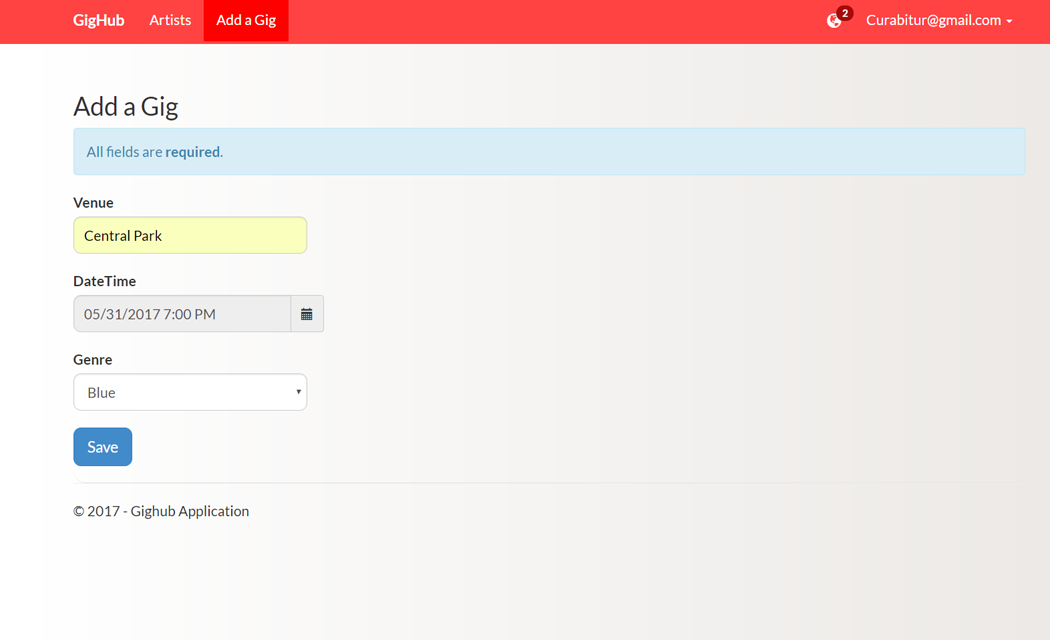
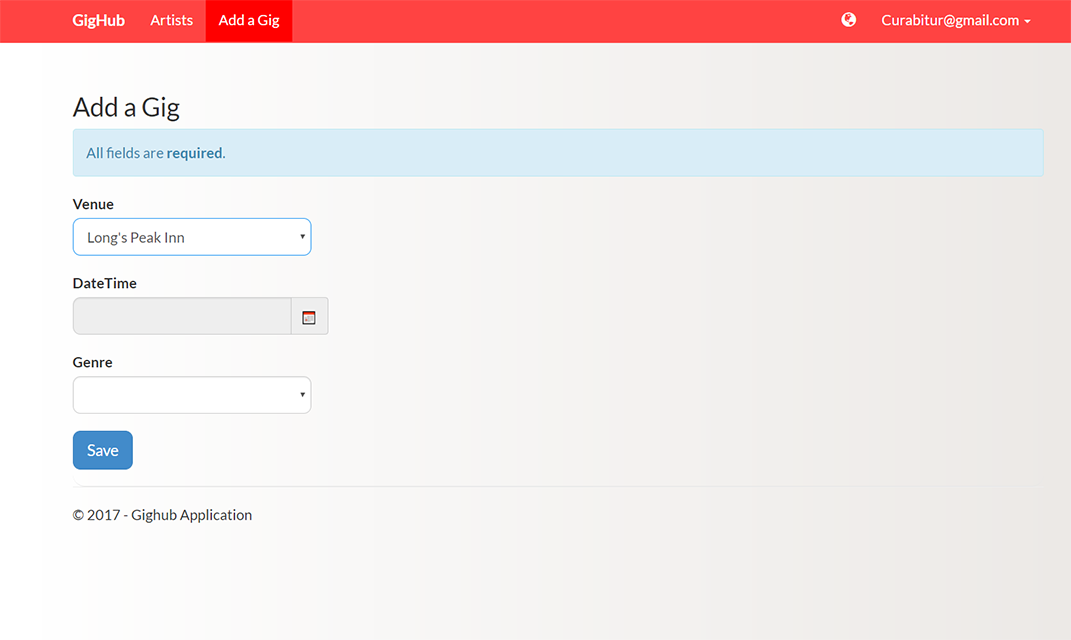
Complete auto complete search

diff --git a/GigHub/GigHub/Content/site.css b/GigHub/GigHub/Content/site.css
@@ -216,8 +216,11 @@ input[type=radio] {
 }
     
 @media(min-width:467px) {
-    #searchGigs, #gigDateTime, .twitter-typeahead>.form-control.tt-input {
+    #searchGigs,.twitter-typeahead>.form-control.tt-input {
         width: 400px;
+    }
+    #gigDateTime {
+        width: 300px;
     }
 
 }

diff --git a/GigHub/GigHub/Persistence/Repositories/GigRepository.cs b/GigHub/GigHub/Persistence/Repositories/GigRepository.cs
@@ -3,7 +3,6 @@ using System.Collections.Generic;
 using System.Data.Entity;
 using System.Linq;
 using System.Linq.Expressions;
-using System.Web.Mvc;
 using GigHub.Core;
 using GigHub.Core.Models;
 using GigHub.Core.Repositories;
@@ -27,6 +26,7 @@ namespace GigHub.Persistence.Repositories
                 .Where(g => g.ArtistId == artistId
                             && g.DateTime > DateTime.Now)
                 .Include(g => g.Genre)
+                .Include(g => g.Venue)
                 .ToList();
         }
 
@@ -36,7 +36,8 @@ namespace GigHub.Persistence.Repositories
                 .Where(g => g.ArtistId == artistId
                             && !g.IsCancelled
                             && g.DateTime > DateTime.Now)
-                .Include(g => g.Genre);
+                .Include(g => g.Genre)
+                .Include(g => g.Venue);
 
             return query.OrderByDescending(g => g.DateTime)
                         .Skip(startIndex)
@@ -66,6 +67,7 @@ namespace GigHub.Persistence.Repositories
             IQueryable<Gig> query = _context.Gigs
                .Include(g => g.Artist)
                .Include(g => g.Genre)
+               .Include(g => g.Venue)
                .Where(gigFilterExpression)
                .OrderBy(g => g.DateTime);
 
@@ -104,7 +106,7 @@ namespace GigHub.Persistence.Repositories
                     Expression<Func<Gig, bool>> allExpression = g =>
                      g.Artist.Name.Contains(searchTerm) ||
                           g.Genre.Name.Contains(searchTerm) ||
-                          g.Venue.Contains(searchTerm);
+                          g.Venue.Name.Contains(searchTerm);
 
                     return allExpression;
 
@@ -123,7 +125,7 @@ namespace GigHub.Persistence.Repositories
                 case AppConst.SearchByVenue:
 
                     Expression<Func<Gig, bool>> venueExpression = g =>
-                       g.Venue.Contains(searchTerm);
+                       g.Venue.Name.Contains(searchTerm);
 
                     return venueExpression;
 
@@ -142,6 +144,7 @@ namespace GigHub.Persistence.Repositories
                 .Select(a => a.Gig)
                 .Include(g => g.Artist)
                 .Include(g => g.Genre)
+                .Include(g => g.Venue)
                 .Where(gigFilterExpression)
                 .OrderBy(g => g.DateTime);
 
@@ -153,6 +156,7 @@ namespace GigHub.Persistence.Repositories
             return _context.Gigs
                 .Include(g => g.Artist)
                 .Include(g => g.Genre)
+                .Include(g => g.Venue)
                 .SingleOrDefault(g => g.Id == gigId);
         }
         public void Add(Gig gig)
@@ -176,6 +180,7 @@ namespace GigHub.Persistence.Repositories
         {
             IEnumerable<Gig> query = _context.Gigs
                 .Include(g => g.Genre)
+                .Include(g => g.Venue)
                 .Where(
                     g => !g.IsCancelled
                          && g.DateTime > DateTime.Now

diff --git a/GigHub/GigHub/Controllers/GigsController.cs b/GigHub/GigHub/Controllers/GigsController.cs
@@ -76,6 +76,7 @@ namespace GigHub.Controllers
             var viewModel = new GigFormViewModel
             {
                 Genres = _unitOfWork.Genres.GetGenres(),
+                Venues = _unitOfWork.Venues.GetVenues(),
                 Heading = "Add a Gig"
             };
 
@@ -91,6 +92,7 @@ namespace GigHub.Controllers
             if (!ModelState.IsValid)
             {
                 viewModel.Genres = _unitOfWork.Genres.GetGenres();
+                viewModel.Venues = _unitOfWork.Venues.GetVenues();
                 return View("GigForm", viewModel);
             }
 
@@ -99,7 +101,7 @@ namespace GigHub.Controllers
                 ArtistId = User.Identity.GetUserId(),
                 DateTime = viewModel.DateTime,
                 GenreId = viewModel.Genre,
-                Venue = viewModel.Venue
+                VenueId = viewModel.Venue
             };
 
             _unitOfWork.Gigs.Add(gig);
@@ -127,9 +129,10 @@ namespace GigHub.Controllers
                 Heading = "Edit a Gig",
                 Id = gig.Id,
                 Genres = _unitOfWork.Genres.GetGenres(),
+                Venues = _unitOfWork.Venues.GetVenues(),
                 DateTime = gig.DateTime,
                 Genre = gig.GenreId,
-                Venue = gig.Venue
+                Venue = gig.VenueId
             };
 
             return View("GigForm", viewModel);
@@ -144,6 +147,7 @@ namespace GigHub.Controllers
             if (!ModelState.IsValid)
             {
                 viewModel.Genres = _unitOfWork.Genres.GetGenres();
+                viewModel.Venues = _unitOfWork.Venues.GetVenues();
                 return View("GigForm", viewModel);
             }
 
@@ -155,7 +159,8 @@ namespace GigHub.Controllers
             if (gig.ArtistId != User.Identity.GetUserId())
                 return new HttpUnauthorizedResult();
 
-            gig.Modify(viewModel.Venue, viewModel.DateTime, viewModel.Genre);
+
+            gig.Modify(_unitOfWork.Venues.GetVenueById(viewModel.Venue), viewModel.DateTime, viewModel.Genre);
 
             _unitOfWork.Complete();
 

diff --git a/GigHub/GigHub/Core/Models/Gig.cs b/GigHub/GigHub/Core/Models/Gig.cs
@@ -17,11 +17,13 @@ namespace GigHub.Core.Models
 
         public DateTime DateTime { get; set; }
 
-        public string Venue { get; set; }
+        //        public string Venue { get; set; }
+        public Venue Venue { get; set; }
 
         public Genre Genre { get; set; }
 
         public Byte GenreId { get; set; }
+        public Byte VenueId { get; set; }
 
         public ICollection<Attendance> Attendances { get; private set; }
 
@@ -59,11 +61,11 @@ namespace GigHub.Core.Models
                 attendee.Notify(notification);
         }
 
-        public void Modify(string venue, DateTime dateTime, byte genreId)
+        public void Modify(Venue venue, DateTime dateTime, byte genreId)
         {
-            var notificaition = Notification.GigUpdated(this, DateTime, Venue);
+            var notificaition = Notification.GigUpdated(this, DateTime, venue.Name);
 
-            Venue = venue;
+            VenueId = venue.Id;
             DateTime = dateTime;
             GenreId = genreId;
 

diff --git a/GigHub/GigHub/Persistence/UnitOfWork.cs b/GigHub/GigHub/Persistence/UnitOfWork.cs
@@ -12,6 +12,7 @@ namespace GigHub.Persistence
         public IAttendanceRepository Attendances { get; private set; }
         public IFollowingRepository Followings { get; private set; }
         public IGenreRepository Genres { get; private set; }
+        public IVenueRepository Venues { get; private set; }
         public IUserNotificationRepository UserNotifications { get; private set; }
         public IUserRepository Users { get; private set; }
         public IRoleRepository Roles { get; private set; }
@@ -25,6 +26,7 @@ namespace GigHub.Persistence
             Attendances = new AttendanceRepository(_context);
             Followings = new FollowingRepository(_context);
             Genres = new GenreRepository(_context);
+            Venues = new VenueRepository(_context);
             UserNotifications = new UserNotificationRepository(_context);
             Users = new UserRepository(_context);
             Roles = new RoleRepository(_context);

diff --git a/GigHub/GigHub/Persistence/Migrations/201704270244031_OverrideConventionsForGigsAndGenres.cs b/GigHub/GigHub/Persistence/Migrations/201704270244031_OverrideConventionsForGigsAndGenres.cs
@@ -1,8 +1,7 @@
 namespace GigHub.Migrations
 {
-    using System;
     using System.Data.Entity.Migrations;
-    
+
     public partial class OverrideConventionsForGigsAndGenres : DbMigration
     {
         public override void Up()
@@ -20,7 +19,7 @@ namespace GigHub.Migrations
             AddForeignKey("dbo.Gigs", "Artist_Id", "dbo.AspNetUsers", "Id", cascadeDelete: true);
             AddForeignKey("dbo.Gigs", "Genre_Id", "dbo.Genres", "Id", cascadeDelete: true);
         }
-        
+
         public override void Down()
         {
             DropForeignKey("dbo.Gigs", "Genre_Id", "dbo.Genres");

diff --git a/GigHub/GigHub/Core/ViewModels/GigFormViewModel.cs b/GigHub/GigHub/Core/ViewModels/GigFormViewModel.cs
@@ -13,7 +13,7 @@ namespace GigHub.Core.ViewModels
         public int Id { get; set; }
 
         [Required]
-        public string Venue { get; set; }
+        public byte Venue { get; set; }
 
         [Required]
         public DateTime DateTime { get; set; }
@@ -22,6 +22,8 @@ namespace GigHub.Core.ViewModels
         public byte Genre { get; set; }
 
         public IEnumerable<Genre> Genres { get; set; }
+
+        public IEnumerable<Venue> Venues { get; set; }
 
         public string Heading { get; set; }
 

diff --git a/GigHub/GigHub/Controllers/Api/GigsController.cs b/GigHub/GigHub/Controllers/Api/GigsController.cs
@@ -61,15 +61,6 @@ namespace GigHub.Controllers.Api
             return Ok();
         }
 
-        [HttpGet]
-        [AllowAnonymous]
-        [Route("api/venues")]
-        public IEnumerable<Gig> GetVenues(string query) => _unitOfWork.Gigs.GetUpcomingGigs(null, null,
-            new GigFilterParams
-            {
-                SearchTerm = query,
-                SearchBy = AppConst.SearchByVenue
-            }
-        );
+
     }
 }

diff --git a/GigHub/GigHub/Persistence/EntityConfigurations/GigConfiguration.cs b/GigHub/GigHub/Persistence/EntityConfigurations/GigConfiguration.cs
@@ -13,9 +13,8 @@ namespace GigHub.Persistence.EntityConfigurations
             Property(g => g.GenreId)
             .IsRequired();
 
-            Property(g => g.Venue)
-            .IsRequired()
-            .HasMaxLength(255);
+            Property(g => g.VenueId)
+            .IsRequired();
 
             HasMany(g => g.Attendances)
                 .WithRequired(a => a.Gig)

diff --git a/GigHub/GigHub/Core/IUnitOfWork.cs b/GigHub/GigHub/Core/IUnitOfWork.cs
@@ -8,6 +8,7 @@ namespace GigHub.Core
         IAttendanceRepository Attendances { get; }
         IFollowingRepository Followings { get; }
         IGenreRepository Genres { get; }
+        IVenueRepository Venues { get; }
         IUserNotificationRepository UserNotifications { get; }
         IUserRepository Users { get; }
         IRoleRepository Roles { get; }

diff --git a/GigHub/GigHub/Core/Repositories/IApplicationDbContext.cs b/GigHub/GigHub/Core/Repositories/IApplicationDbContext.cs
@@ -8,6 +8,7 @@ namespace GigHub.Core.Repositories
     {
         DbSet<Gig> Gigs { get; set; }
         DbSet<Genre> Genres { get; set; }
+        DbSet<Venue> Venues { get; set; }
         DbSet<Attendance> Attendances { get; set; }
         DbSet<Following> Followings { get; set; }
         DbSet<Notification> Notifications { get; set; }

diff --git a/GigHub/GigHub/Global.asax.cs b/GigHub/GigHub/Global.asax.cs
@@ -1,4 +1,5 @@
-using System.Web.Http;
+using System.Data.Entity.Migrations;
+using System.Web.Http;
 using System.Web.Mvc;
 using System.Web.Optimization;
 using System.Web.Routing;
